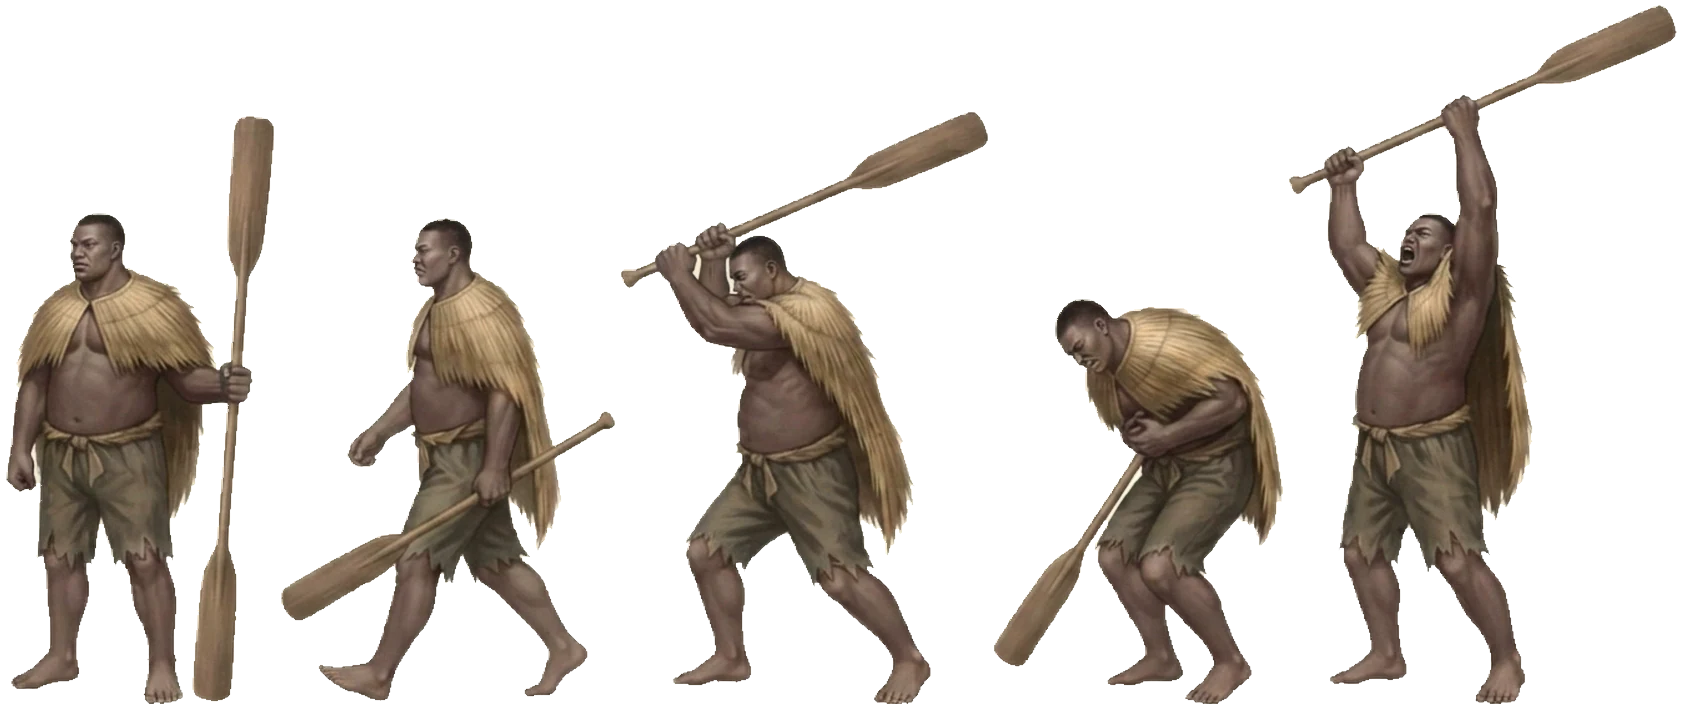
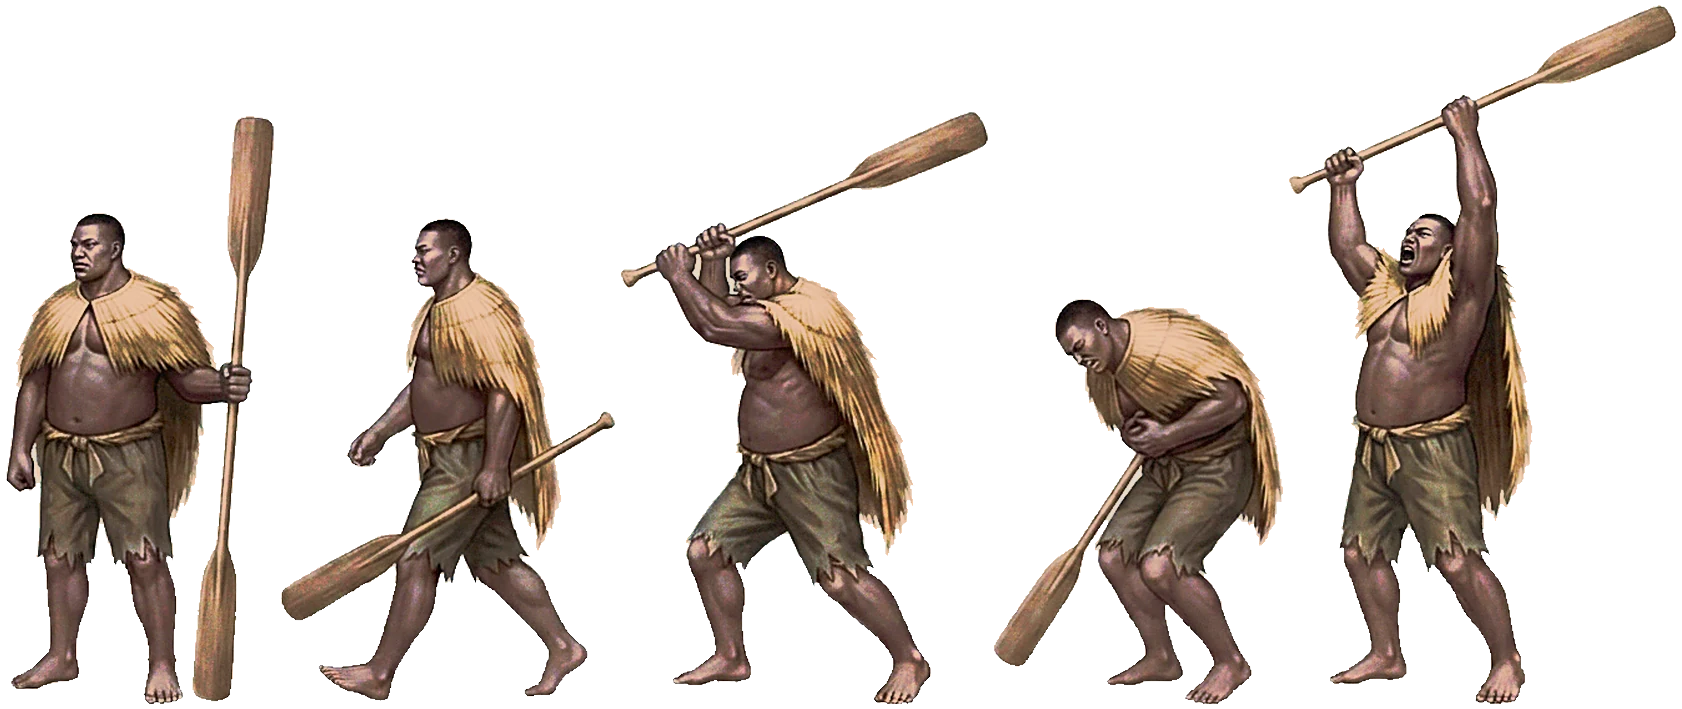
취권소찬: 뱃사공 거인 두목(boss5 세 장) 그림 톤을 주인공과 맞춤 — hero1 색 분포에 맞추고 또렷하게(명암 폭 0.116→0.185, 선명도 2.7배), 다른 인물 그림은 그대로, IMGV 7 (사장님 2026-09-25 "취권 두목이 그림톤이 달라" → "기존그림에 색깔톤만 입혀" → "주인공이랑 같은 톤으로")

diff --git a/games/mini/chwigwon/play/js/sprites.js b/games/mini/chwigwon/play/js/sprites.js
@@ -5,7 +5,7 @@
  */
 (function () {
   'use strict';
-  var IMGV = 6;   // 그림을 새로 뽑으면 올린다(엣지 캐시)
+  var IMGV = 7;   // 그림을 새로 뽑으면 올린다(엣지 캐시)
   var IMGS = {}, FACE = { hero: 1 };
   var WARM = document.createElement('canvas'); WARM.width = WARM.height = 2;      // 시트 이름 앞머리(숫자 뺀 것) → 원래 보는 방향. 없으면 -1(왼쪽)
   function baseName(n) { return n.replace(/_c\d+$/, '').replace(/\d+$/, ''); }

diff --git a/games/mini/chwigwon/play/index.html b/games/mini/chwigwon/play/index.html
@@ -204,7 +204,7 @@ body.touch.portrait #rotate{display:grid}
 <script src="assets/landscape.js?v=4"></script>
 <script src="js/sheets.js?v=23"></script>
 <script src="js/audio.js?v=3"></script>
-<script src="js/sprites.js?v=11"></script>
+<script src="js/sprites.js?v=12"></script>
 <script src="js/game.js?v=31"></script>
 <script src="/assets/visit.js?v=17" defer></script>
 <script src="/assets/game-events.js?v=2" defer></script>
